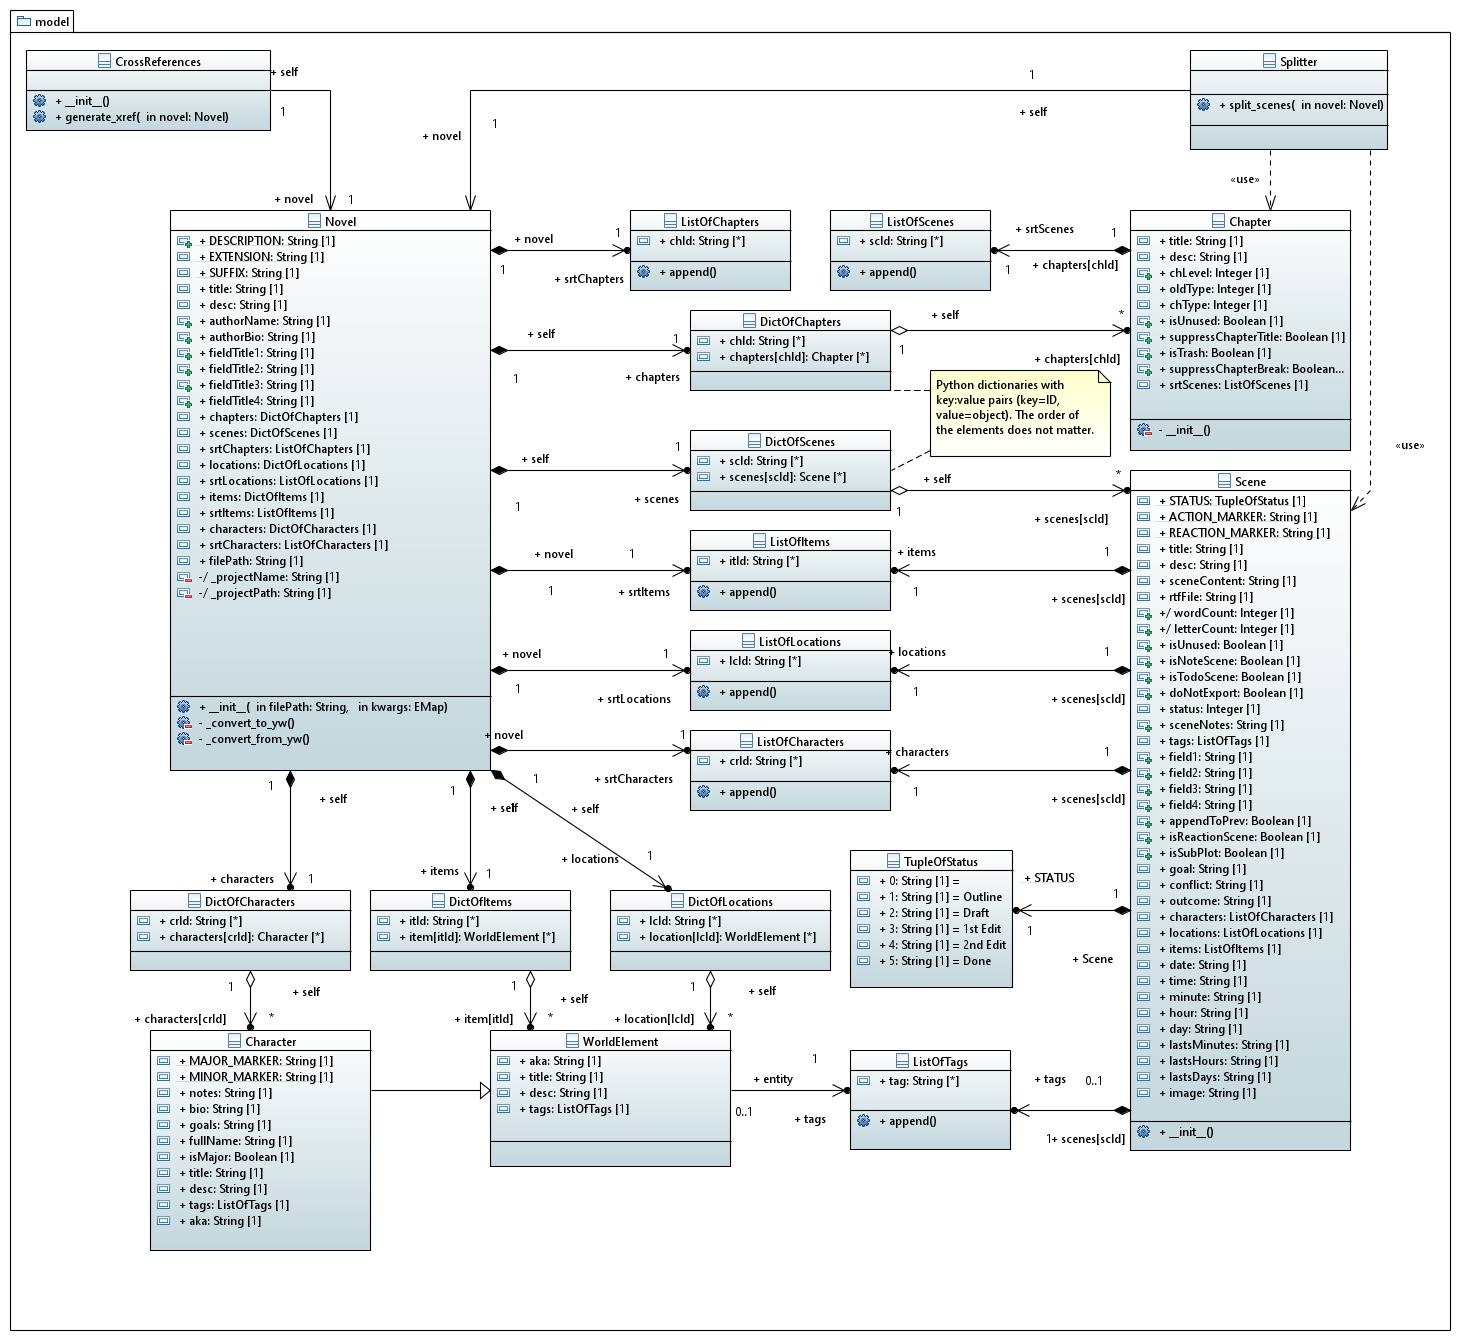
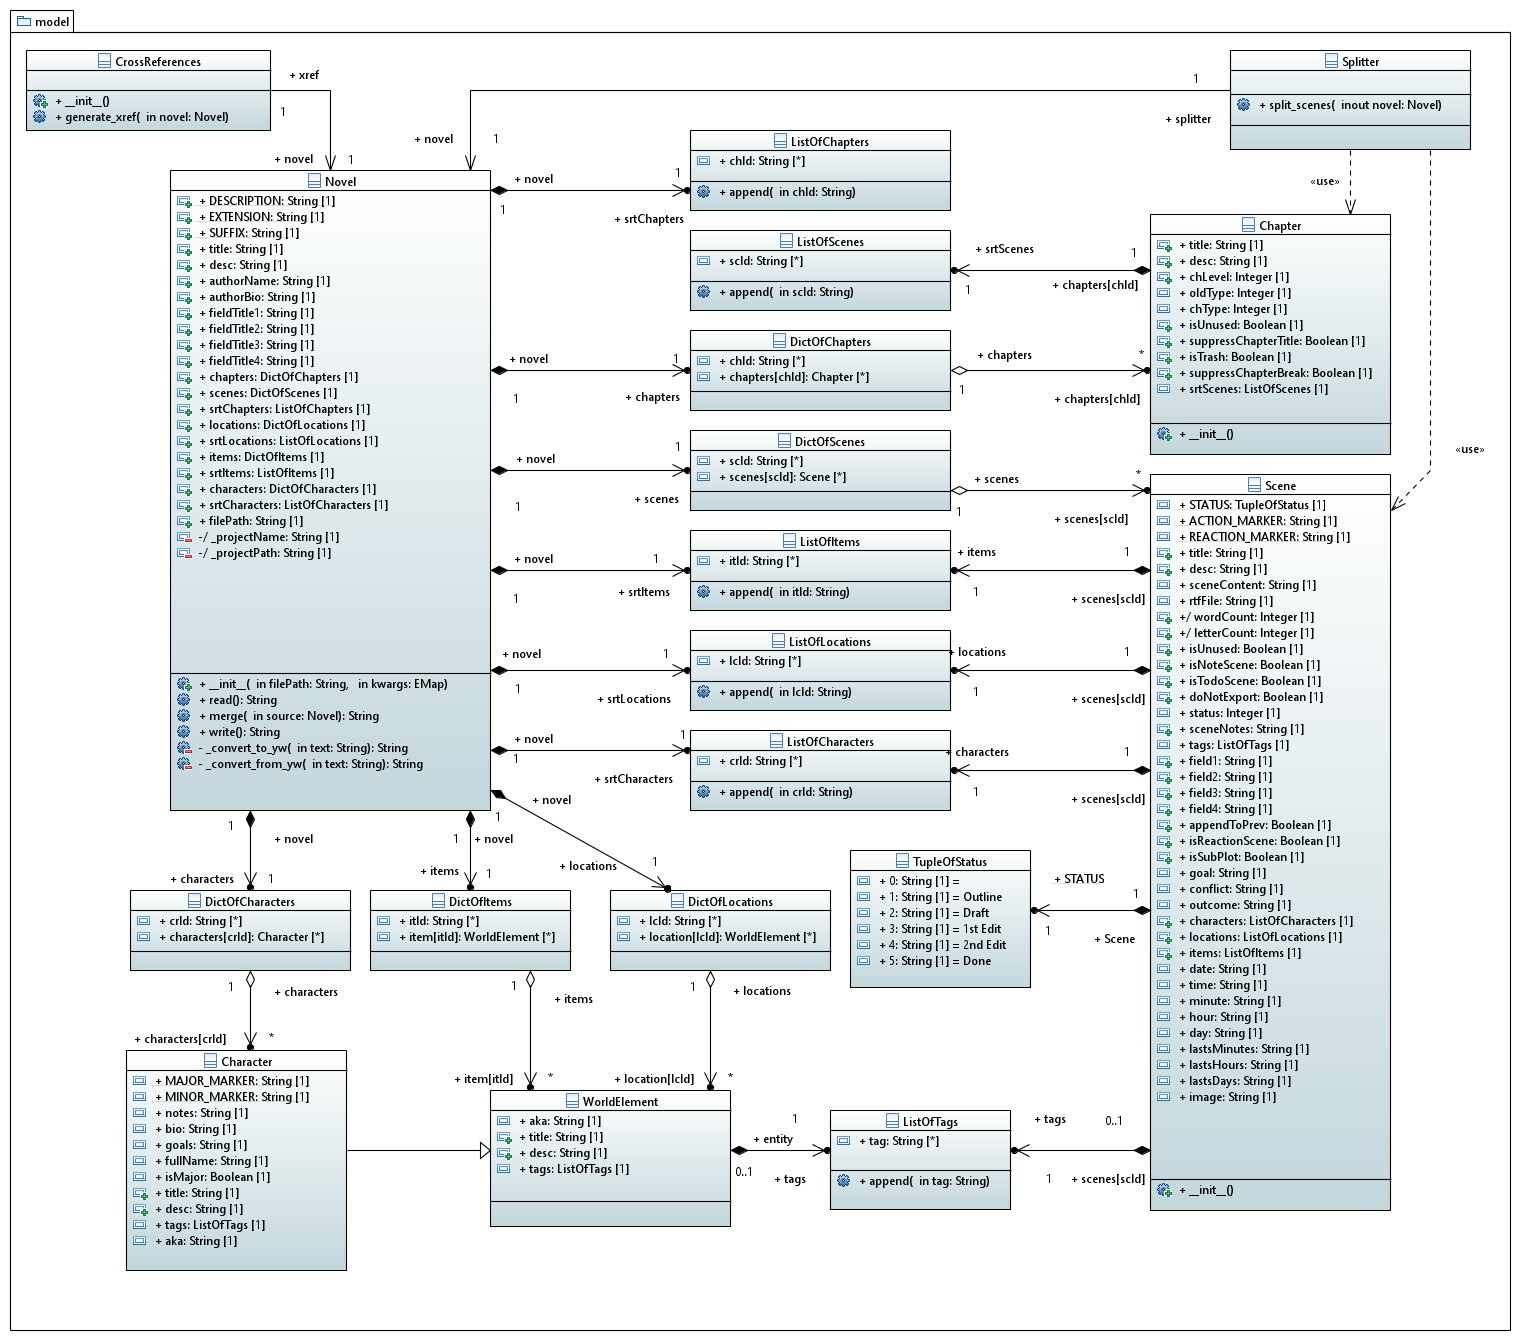
Prepare v4.1.22
Refactor:

- Restore Novel.read/merge/write methods removed with v3.33.1. This is
to show the Novel "interface".
- Integrate the code from Yw7File._format_xml() in
Yw7File._postprocess_xml_file.

- Update docstrings.

diff --git a/src/pywriter/yw/yw7_file.py b/src/pywriter/yw/yw7_file.py
@@ -47,14 +47,22 @@ class Yw7File(Novel):
     # ElementTree.write omits CDATA tags, so they have to be inserted afterwards.
 
     def __init__(self, filePath, **kwargs):
-        """Initialize instance variables:
+        """Initialize instance variables.
+        
+        Positional arguments:
+            filePath -- string; path to the yw7 file.
+            
+        Optional arguments:
+            kwargs -- keyword arguments (not used here).            
+        
         Extend the superclass constructor.
         """
         super().__init__(filePath)
         self.tree = None
 
     def read(self):
-        """Parse the yWriter xml file, fetching the Novel attributes.
+        """Parse the yWriter xml file and get the instance variables.
+        
         Return a message beginning with the ERROR constant in case of error.
         Override the superclass method.
         """
@@ -462,7 +470,11 @@ class Yw7File(Novel):
         return 'yWriter project data read in.'
 
     def merge(self, source):
-        """Copy required attributes of the source object.
+        """Update instance variables from a source instance.
+        
+        Positional arguments:
+            source -- Novel subclass instance to merge.
+        
         Return a message beginning with the ERROR constant in case of error.
         Override the superclass method.
         """
@@ -890,8 +902,10 @@ class Yw7File(Novel):
         return 'yWriter project data updated or created.'
 
     def write(self):
-        """Open the yWriter xml file located at filePath and 
-        replace a set of attributes not being None.
+        """Write instance variables to the file.
+        
+        Open the yWriter xml file located at filePath and replace the instance variables 
+        not being None. Create new XML elements if necessary.
         Return a message beginning with the ERROR constant in case of error.
         Override the superclass method.
         """
@@ -1572,13 +1586,16 @@ class Yw7File(Novel):
         return self._postprocess_xml_file(self.filePath)
 
     def is_locked(self):
-        """Return True if a .lock file placed by yWriter exists.
+        """Check whether the yw7 file is locked by yWriter.
+        
+        Return True if a .lock file placed by yWriter exists.
         Otherwise, return False. 
         """
         return os.path.isfile(f'{self.filePath}.lock')
     
     def _write_element_tree(self, ywProject):
-        """Write back the xml element tree to a yWriter xml file located at filePath.
+        """Write back the xml element tree to a .yw7 xml file located at filePath.
+        
         Return a message beginning with the ERROR constant in case of error.
         """
 
@@ -1601,12 +1618,26 @@ class Yw7File(Novel):
 
         return 'yWriter XML tree written.'
 
-    def _format_xml(self, text):
-        '''Postprocess the xml file created by ElementTree:
-           Insert the missing CDATA tags, replace xml entities by plain text.
+
+    def _postprocess_xml_file(self, filePath):
+        '''Postprocess an xml file created by ElementTree.
+        
+        Positional argument:
+            filePath -- string; path to xml file.
+        
+        Read the xml file, put a header on top, insert the missing CDATA tags,
+        and replace xml entities by plain text (unescape). Overwrite the .yw7 xml file.
+        Return a message beginning with the ERROR constant in case of error.
+        
+        Note: The path is given as an argument rather than using self.filePath. 
+        So this routine can be used for yWriter-generated xml files other than .yw7 as well. 
         '''
+
+        with open(filePath, 'r', encoding='utf-8') as f:
+            text = f.read()
+
         lines = text.split('\n')
-        newlines = []
+        newlines = ['<?xml version="1.0" encoding="utf-8"?>']
 
         for line in lines:
 
@@ -1620,21 +1651,6 @@ class Yw7File(Novel):
         text = text.replace('[CDATA[ \n', '[CDATA[')
         text = text.replace('\n]]', ']]')
         text = unescape(text)
-
-        return text
-
-    def _postprocess_xml_file(self, filePath):
-        '''Postprocess the xml file created by ElementTree:
-        Put a header on top, insert the missing CDATA tags,
-        and replace xml entities by plain text.
-        Return a message beginning with the ERROR constant in case of error.
-        '''
-
-        with open(filePath, 'r', encoding='utf-8') as f:
-            text = f.read()
-
-        text = self._format_xml(text)
-        text = f'<?xml version="1.0" encoding="utf-8"?>\n{text}'
 
         try:
 

diff --git a/src/pywriter/model/novel.py b/src/pywriter/model/novel.py
@@ -7,9 +7,9 @@ For further information see https://github.com/peter88213/PyWriter
 Published under the MIT License (https://opensource.org/licenses/mit-license.php)
 """
 from urllib.parse import quote
-from shutil import copy2
 import os
 
+from pywriter.pywriter_globals import ERROR
 
 class Novel():
     """Abstract yWriter project file representation.
@@ -17,6 +17,11 @@ class Novel():
     This class represents a file containing a novel with additional 
     attributes and structural information (a full set or a subset
     of the information included in an yWriter project file).
+
+    Public methods:
+        read() -- parse the file and get the instance attributes.
+        merge(source) -- copy required attributes of the source object.
+        write() -- write selected properties to the file.
 
     Public instance variables:
         title -- title.
@@ -170,8 +175,38 @@ class Novel():
             self.projectPath = quote(head.replace('\\', '/'), '/:')
             self.projectName = quote(tail.replace(f'{suffix}{self.EXTENSION}', ''))
 
+    def read(self):
+        """Parse the file and get the instance variables.
+        
+        Return a message beginning with the ERROR constant in case of error.
+        This is a stub to be overridden by subclass methods.
+        """
+        return f'{ERROR}Read method is not implemented.'
+
+    def merge(self, source):
+        """Update instance variables from a source instance.
+        
+        Positional arguments:
+            source -- Novel subclass instance to merge.
+        
+        Return a message beginning with the ERROR constant in case of error.
+        This is a stub to be overridden by subclass methods.
+        """
+        return f'{ERROR}Merge method is not implemented.'
+
+    def write(self):
+        """Write instance variables to the file.
+        
+        Return a message beginning with the ERROR constant in case of error.
+        This is a stub to be overridden by subclass methods.
+        """
+        return f'{ERROR}Write method is not implemented.'
+
     def _convert_to_yw(self, text):
         """Return text, converted from source format to yw7 markup.
+        
+        Positional arguments:
+            text -- string to convert.
         
         This is a stub to be overridden by subclass methods.
         """
@@ -179,6 +214,12 @@ class Novel():
 
     def _convert_from_yw(self, text, quick=False):
         """Return text, converted from yw7 markup to target format.
+        
+        Positional arguments:
+            text -- string to convert.
+        
+        Optional arguments:
+            quick -- Boolean; if True, apply a conversion mode for one-liners without formatting.
         
         This is a stub to be overridden by subclass methods.
         """

diff --git a/src/pywriter/yw/data_files.py b/src/pywriter/yw/data_files.py
@@ -15,14 +15,24 @@ class DataFiles(Yw7File):
     """yWriter XML data files representation.
 
     Public methods: 
-        merge(novel) -- Copy required attributes of the novel object.    
+        merge(source) -- Update instance variables from a source instance.
+        
+    yWriter can import or export characters, locations and items as separate
+    xml files. This class represents a set of three xml files generated from
+    a yWriter 7 project.
     """
 
     DESCRIPTION = 'yWriter XML data files'
     EXTENSION = '.xml'
 
     def _write_element_tree(self, ywProject):
-        """Write back the xml element tree to a yWriter xml file located at filePath.
+        """Save the characters/locations/items subtrees as separate xml files
+        
+        Positional argument:
+            ywProject -- Yw7File instance.
+            
+        Extract the characters/locations/items xml subtrees from a yWriter project.
+        Generate the xml file paths from the .yw7 path and write each subtree to an xml file.
         Return a message beginning with the ERROR constant in case of error.
         """
 
@@ -61,10 +71,15 @@ class DataFiles(Yw7File):
         return 'All XML data files written.'
 
     def _postprocess_xml_file(self, filePath):
-        '''Postprocess the xml files created by ElementTree:
-        Put headers on top, insert the missing CDATA tags,
-        and replace xml entities by plain text.
+        '''Postprocess three xml files created by ElementTree.
+        
+        Positional argument:
+            filePath -- string; path to .yw7 xml file.
+            
+        Generate the xml file paths from the .yw7 path. 
+        Read, postprocess and write the characters, locations, and items xml files.        
         Return a message beginning with the ERROR constant in case of error.
+        Extend the superclass method.
         '''
 
         path, __ = os.path.splitext(filePath)
@@ -90,7 +105,11 @@ class DataFiles(Yw7File):
         return 'All XML data files written.'
 
     def merge(self, source):
-        """Copy required attributes of the source object.
+        """Update instance variables from a source instance.
+        
+        Positional arguments:
+            source -- Novel subclass instance to merge.
+        
         Return a message beginning with the ERROR constant in case of error.
         Override the superclass method.
         """
